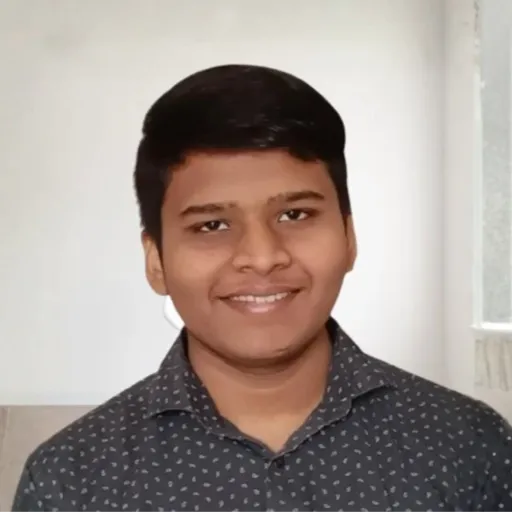
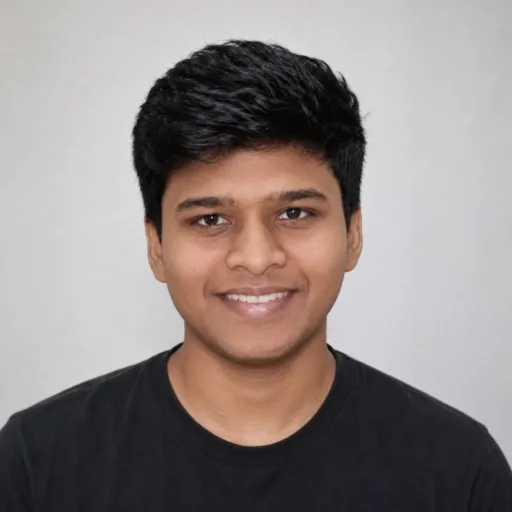
Refresh landing nav, trial copy, and founder photo.
Section links match the page, free plan reads as a trial, and pricing cards are wider.

diff --git a/frontend/src/components/landing/LandingHeader.tsx b/frontend/src/components/landing/LandingHeader.tsx
@@ -5,15 +5,23 @@ import { useState } from "react";
 import { Menu, X } from "lucide-react";
 import { useSession } from "@/lib/auth-client";
 import Image from "@/components/AppImage";
+import { useLandingModeOrDefault } from "./landing-mode";
 
 type NavLink = { href: string; label: string };
 
-// Keep nav short — one job: stay on-page and convert
-const landingNavLinks: NavLink[] = [
-  { href: "/#features", label: "Product" },
-  { href: "/#stories", label: "Stories" },
-  { href: "/#pricing", label: "Pricing" },
-];
+function landingNavLinks(mode: "normal" | "agent"): NavLink[] {
+  return [
+    { href: "/#features", label: "Features" },
+    ...(mode === "agent"
+      ? [{ href: "/#agent-demos", label: "Agents" }]
+      : []),
+    { href: "/#platforms", label: "Platforms" },
+    { href: "/#developers", label: "Developers" },
+    { href: "/#stories", label: "Reviews" },
+    { href: "/#pricing", label: "Pricing" },
+    { href: "/#faq", label: "FAQ" },
+  ];
+}
 
 /** On /home, same-page anchors must use /home#… so they don't hit / and redirect logged-in users. */
 function landingNavHref(href: string, pathname: string | null) {
@@ -23,13 +31,10 @@ function landingNavHref(href: string, pathname: string | null) {
   return href;
 }
 
-function navLinksForPath(): NavLink[] {
-  return landingNavLinks;
-}
-
 export function LandingHeader() {
   const pathname = useLocation().pathname;
-  const navLinks = navLinksForPath();
+  const { mode } = useLandingModeOrDefault();
+  const navLinks = landingNavLinks(mode);
   const [mobileMenuOpen, setMobileMenuOpen] = useState(false);
   const { data: session } = useSession();
   const user = session?.user;
@@ -64,25 +69,7 @@ export function LandingHeader() {
           </span>
         </Link>
 
-        <nav className="hidden items-center gap-8 lg:flex">
-          <Link
-            href="/features"
-            className="text-[14px] text-muted-foreground transition-colors hover:text-foreground"
-          >
-            Features
-          </Link>
-          <Link
-            href="/tools"
-            className="text-[14px] text-muted-foreground transition-colors hover:text-foreground"
-          >
-            Tools
-          </Link>
-          <Link
-            href="/alternatives"
-            className="text-[14px] text-muted-foreground transition-colors hover:text-foreground"
-          >
-            Compare
-          </Link>
+        <nav className="hidden items-center gap-6 lg:flex">
           {navLinks.map((link) => (
             <Link
               key={link.href}
@@ -146,27 +133,6 @@ export function LandingHeader() {
       {mobileMenuOpen && (
         <div className="border-t border-border bg-background px-6 py-4 lg:hidden">
           <nav className="flex flex-col gap-4">
-            <Link
-              href="/features"
-              className="text-[15px] text-muted-foreground transition-colors hover:text-foreground"
-              onClick={() => setMobileMenuOpen(false)}
-            >
-              Features
-            </Link>
-            <Link
-              href="/tools"
-              className="text-[15px] text-muted-foreground transition-colors hover:text-foreground"
-              onClick={() => setMobileMenuOpen(false)}
-            >
-              Tools
-            </Link>
-            <Link
-              href="/alternatives"
-              className="text-[15px] text-muted-foreground transition-colors hover:text-foreground"
-              onClick={() => setMobileMenuOpen(false)}
-            >
-              Compare
-            </Link>
             {navLinks.map((link) => (
               <Link
                 key={link.href}

diff --git a/frontend/src/components/landing/PricingSection.tsx b/frontend/src/components/landing/PricingSection.tsx
@@ -2,7 +2,7 @@ import { useState } from "react";
 import Link from "@/components/AppLink";
 import { BillingIntervalToggle } from "@/components/billing/BillingIntervalToggle";
 import { PlanDiscountPrice } from "@/components/billing/PlanDiscountPrice";
-import type { BillingInterval } from "@/lib/plans";
+import { getPlanLimits, type BillingInterval } from "@/lib/plans";
 import {
   billedAsYearlyLabel,
   getEffectiveMonthly,
@@ -18,7 +18,7 @@ import {
 } from "@/lib/plan-features";
 
 const basePlanCard =
-  "flex h-full flex-col rounded-2xl border border-border bg-card p-8 md:p-10 dark:border-white/10 dark:bg-[#1A1A1A]";
+  "flex h-full flex-col rounded-2xl border border-border bg-card p-6 md:p-8 dark:border-white/10 dark:bg-[#1A1A1A]";
 
 const basePlanLabel =
   "text-[11px] font-medium uppercase tracking-widest text-muted-foreground";
@@ -67,6 +67,7 @@ export function PricingCards({
   const growth = getPlanPrice("growth", interval);
   const pro = getPlanPrice("pro", interval);
   const max = getPlanPrice("max", interval);
+  const freePosts = getPlanLimits("free").maxFreePosts;
   const Heading = headingAs;
   const paidCta = signedIn ? "Go to dashboard →" : "Get started";
   const maxBuyHref = signedIn ? "/dashboard/billing" : "/auth?mode=signin";
@@ -81,7 +82,7 @@ export function PricingCards({
 
   return (
     <section id={id} className="px-4 py-16 sm:px-6 sm:py-20 lg:px-8 lg:py-24">
-      <div className="mx-auto max-w-280">
+      <div className="mx-auto w-full max-w-350">
         <div className="mb-4 flex flex-wrap items-start justify-between gap-4">
           <div>
             <div className="mb-3 text-[11px] uppercase tracking-widest text-muted-foreground">
@@ -114,9 +115,13 @@ export function PricingCards({
           — we&apos;ll make it right.
         </p>
 
-        <div className="grid grid-cols-1 items-stretch gap-5 md:grid-cols-2 lg:grid-cols-4">
+        <div className="grid grid-cols-1 items-stretch gap-4 md:grid-cols-2 lg:grid-cols-4 lg:gap-5">
           <div className={basePlanCard}>
-            <div className="mb-6 min-h-7.5" aria-hidden />
+            <div className="mb-6 min-h-7.5">
+              <span className="inline-flex items-center gap-2 rounded-full border border-border px-3 py-1.5 text-[11px] font-medium uppercase tracking-widest text-muted-foreground dark:border-white/10">
+                {freePosts} posts for trial
+              </span>
+            </div>
             <div className={basePlanLabel}>Free</div>
             <div className="mt-6 mb-2 flex items-baseline gap-2">
               <div className={basePlanPrice}>
@@ -125,7 +130,7 @@ export function PricingCards({
                 </sup>
                 0
               </div>
-              <div className="text-[13px] text-muted-foreground">forever</div>
+              <div className="text-[13px] text-muted-foreground">to start</div>
             </div>
             <p className={`mb-8 ${basePlanDesc}`}>
               Publish across every platform and see why creators switch — before

diff --git a/frontend/src/components/landing/PricingComparisonTable.tsx b/frontend/src/components/landing/PricingComparisonTable.tsx
@@ -81,7 +81,7 @@ export const COMPARE_ROWS: CompareRow[] = [
     "Posts",
     "How many posts you can create and publish. Free includes a lifetime trial allotment.",
     {
-      free: `${freePosts} to try`,
+      free: `${freePosts} for trial`,
       starter: "Unlimited",
       growth: "Unlimited",
       pro: "Unlimited",
@@ -349,7 +349,7 @@ export function PricingComparisonTable({
       className="px-4 py-16 sm:px-6 sm:py-20 lg:px-8 lg:py-24"
       aria-label="Plan comparison"
     >
-      <div className="mx-auto max-w-[1120px]">
+      <div className="mx-auto w-full max-w-350">
         <div className="mb-10 text-center">
           <p className="mb-3 text-[11px] uppercase tracking-widest text-muted-foreground">
             Compare

diff --git a/frontend/src/lib/plan-features.ts b/frontend/src/lib/plan-features.ts
@@ -39,7 +39,7 @@ export type PlanFeature = { text: string; highlight?: boolean };
 export const freeFeatures: PlanFeature[] = [
   { text: "No credit card required", highlight: true },
   { text: "Up to 3 connected accounts", highlight: true },
-  { text: `${freePosts} posts to try before you upgrade`, highlight: true },
+  { text: `${freePosts} posts for trial`, highlight: true },
   ...CORE_PUBLISH.map((text) => ({ text })),
   ...CORE_DEV.map((text) => ({ text })),
   ...CORE_EXTRAS.map((text) => ({ text })),

diff --git a/frontend/src/components/landing/LandingFooter.tsx b/frontend/src/components/landing/LandingFooter.tsx
@@ -257,7 +257,7 @@ export function LandingFooter() {
     { href: "/alternatives", label: "All comparisons" },
     { href: DOCS_BASE_URL, label: "Docs", external: true },
     { href: "/#platforms", label: "Channels" },
-    { href: "/#stories", label: "Stories" },
+    { href: "/#stories", label: "Reviews" },
     { href: "/#faq", label: "FAQ" },
     { href: "/#developers", label: "Developers" },
     // ponytail: self-host repo private
